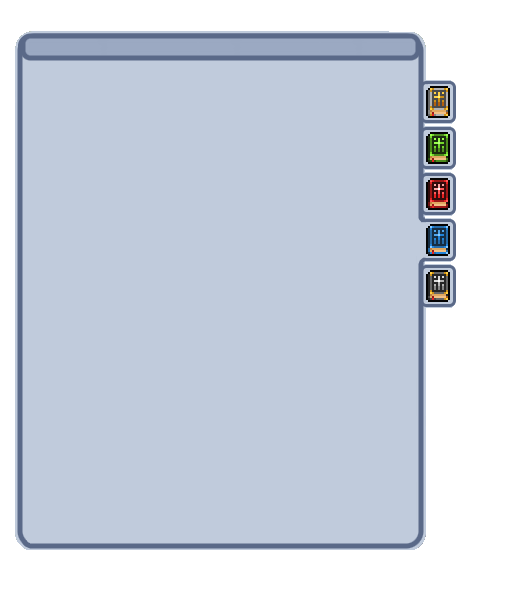
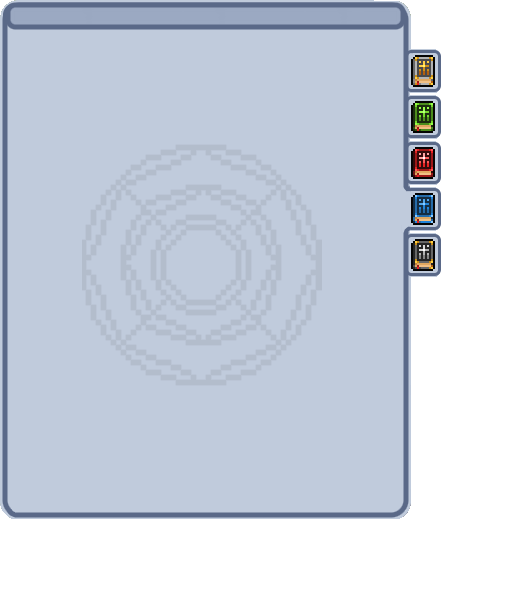
ability panel

Changed region(s): [[0.0, 0.0, 0.919, 0.941]]

diff --git a/src/main/system/ui/inventory/UI_InventoryPanel.java b/src/main/system/ui/inventory/UI_InventoryPanel.java
@@ -112,6 +112,7 @@ public class UI_InventoryPanel {
             }
         }
     }
+
     public void drawBagTooltip(GraphicsContext gc) {
         if (grabbedITEM == null && !mg.inputH.mouse1Pressed) {
             for (UI_InventorySlot bagSlot : bag_Slots) {
@@ -482,35 +483,36 @@ public class UI_InventoryPanel {
     }
 
     public void interactWithWindows() {
+        Point mousePos = mg.inputH.lastMousePosition;
         if (char_Slots[8].item != null && char_Slots[8].item.type == '2') {
             char_Slots[9].type = ",";
         } else {
             char_Slots[9].type = "O";
         }
         boolean node_focused = false;
-        if (mg.ui.musicSliderHitBox.contains(mg.inputH.lastMousePosition) && mg.inputH.mouse1Pressed) {
-            mg.ui.musicSlider += (mg.inputH.lastMousePosition.x - previousMousePosition.x) / 2.0f;
+        if (mg.ui.musicSliderHitBox.contains(mousePos) && mg.inputH.mouse1Pressed) {
+            mg.ui.musicSlider += (mousePos.x - previousMousePosition.x) / 2.0f;
             mg.ui.musicSlider = Math.max(Math.min(100, mg.ui.musicSlider), 0);
             mg.sound.setVolumeMusic(mg.ui.musicSlider);
             mg.ui.musicSliderHitBox.x = (int) (650 + mg.ui.musicSlider * 2 - 12);
-        } else if (mg.ui.effectsSliderHitBox.contains(mg.inputH.lastMousePosition) && mg.inputH.mouse1Pressed) {
-            mg.ui.effectsSlider += (mg.inputH.lastMousePosition.x - previousMousePosition.x) / 2.0f;
+        } else if (mg.ui.effectsSliderHitBox.contains(mousePos) && mg.inputH.mouse1Pressed) {
+            mg.ui.effectsSlider += (mousePos.x - previousMousePosition.x) / 2.0f;
             mg.ui.effectsSlider = Math.max(Math.min(100, mg.ui.effectsSlider), 0);
             mg.sound.setVolumeEffects(mg.ui.effectsSlider);
             mg.ui.effectsSliderHitBox.x = (int) (650 + mg.ui.effectsSlider * 2 - 12);
-        } else if (mg.ui.ambientSliderHitBox.contains(mg.inputH.lastMousePosition) && mg.inputH.mouse1Pressed) {
-            mg.ui.ambientSlider += (mg.inputH.lastMousePosition.x - previousMousePosition.x) / 2.0f;
+        } else if (mg.ui.ambientSliderHitBox.contains(mousePos) && mg.inputH.mouse1Pressed) {
+            mg.ui.ambientSlider += (mousePos.x - previousMousePosition.x) / 2.0f;
             mg.ui.ambientSlider = Math.max(Math.min(100, mg.ui.ambientSlider), 0);
             mg.sound.setVolumeAmbience(mg.ui.ambientSlider);
             mg.ui.ambientSliderHitBox.x = (int) (650 + mg.ui.ambientSlider * 2 - 12);
-        } else if (mg.inputH.mouse1Pressed && charPanelMover.contains(mg.inputH.lastMousePosition)) {
-            charPanelX += mg.inputH.lastMousePosition.x - previousMousePosition.x;
-            charPanelY += mg.inputH.lastMousePosition.y - previousMousePosition.y;
+        } else if (mg.inputH.mouse1Pressed && charPanelMover.contains(mousePos)) {
+            charPanelX += mousePos.x - previousMousePosition.x;
+            charPanelY += mousePos.y - previousMousePosition.y;
             charPanelMover.x = charPanelX - 40;
             charPanelMover.y = charPanelY - 75;
-        } else if (mg.inputH.mouse1Pressed && bagPanelMover.contains(mg.inputH.lastMousePosition)) {
-            bagPanelX += mg.inputH.lastMousePosition.x - previousMousePosition.x;
-            bagPanelY += mg.inputH.lastMousePosition.y - previousMousePosition.y;
+        } else if (mg.inputH.mouse1Pressed && bagPanelMover.contains(mousePos)) {
+            bagPanelX += mousePos.x - previousMousePosition.x;
+            bagPanelY += mousePos.y - previousMousePosition.y;
             if (showBagEquipSlots) {
                 bagSortButton.x = bagPanelX + 41;
                 bagSortButton.y = bagPanelY + 1;
@@ -530,10 +532,10 @@ public class UI_InventoryPanel {
                 bagPanelMover.x = bagPanelX + 5;
                 bagPanelMover.y = bagPanelY - 2;
             }
-        } else if (mg.talentP.wholeTalentWindow.contains(mg.inputH.lastMousePosition)) {
+        } else if (mg.talentP.wholeTalentWindow.contains(mousePos)) {
             for (TalentNode node : mg.talentP.talent_Nodes) {
                 if (node != null) {
-                    if (node.boundBox.contains(mg.inputH.lastMousePosition)) {
+                    if (node.boundBox.contains(mousePos)) {
                         if (mg.inputH.mouse1Pressed) {
                             if (mg.talentP.checkValidTalent(node) && mg.talentP.pointsToSpend > 0 && !node.activated) {
                                 node.activated = true;
@@ -546,12 +548,23 @@ public class UI_InventoryPanel {
                 }
             }
             if (!node_focused && mg.inputH.mouse1Pressed) {
-                mg.talentP.talentPanelX += mg.inputH.lastMousePosition.x - previousMousePosition.x;
-                mg.talentP.talentPanelY += mg.inputH.lastMousePosition.y - previousMousePosition.y;
+                mg.talentP.talentPanelX += mousePos.x - previousMousePosition.x;
+                mg.talentP.talentPanelY += mousePos.y - previousMousePosition.y;
+            }
+        } else if (mg.skillPanel.wholeSkillWindow.contains(mousePos)) {
+            for (int i = 0; i < 5; i++) {
+                if (mg.inputH.mouse1Pressed && mg.skillPanel.hitBoxesSideButtons[i].contains(mousePos)) {
+                    System.out.println("hey");
+                    for (int j = 0; j < 5; j++) {
+                        mg.skillPanel.whichPanel[i] = false;
+                    }
+                    mg.skillPanel.whichPanel[i] = true;
+                    return;
+                }
             }
         }
-        previousMousePosition.x = mg.inputH.lastMousePosition.x;
-        previousMousePosition.y = mg.inputH.lastMousePosition.y;
+        previousMousePosition.x = mousePos.x;
+        previousMousePosition.y = mousePos.y;
     }
 
     private void drawCharacterBackGroundMain(GraphicsContext gc, int startX, int startY) {

diff --git a/src/main/system/ui/skillpanel/UI_SkillPanel.java b/src/main/system/ui/skillpanel/UI_SkillPanel.java
@@ -13,14 +13,15 @@ import java.util.ArrayList;
 import java.util.Objects;
 
 public class UI_SkillPanel {
-    protected boolean drawOne, drawTwo, drawThree, drawFour, drawFive;
+    public boolean[] whichPanel = new boolean[5];
     private final Image a1 = new Image(Objects.requireNonNull(getClass().getResourceAsStream("/resources/ui/inventory/spellbook_first.png")));
     private final Image a2 = new Image(Objects.requireNonNull(getClass().getResourceAsStream("/resources/ui/inventory/spellbook_2.png")));
     private final Image a3 = new Image(Objects.requireNonNull(getClass().getResourceAsStream("/resources/ui/inventory/spellbook_3.png")));
     private final Image a4 = new Image(Objects.requireNonNull(getClass().getResourceAsStream("/resources/ui/inventory/spellbook_4.png")));
     private final Image a5 = new Image(Objects.requireNonNull(getClass().getResourceAsStream("/resources/ui/inventory/spellbook_5.png")));
     public MainGame mg;
-    public Rectangle wholeSkillWindow, one, two, three, four, five;
+    public Rectangle wholeSkillWindow;
+    public Rectangle[] hitBoxesSideButtons = new Rectangle[5];
     public int skillPanelX = 500, skillPanelY = 250;
     ArrayList<SKILL> arcaneSkills = new ArrayList<>();
     ArrayList<SKILL> fireSkills = new ArrayList<>();
@@ -30,13 +31,11 @@ public class UI_SkillPanel {
 
 
     public UI_SkillPanel(MainGame mg) {
-        drawOne = true;
-        this.wholeSkillWindow = new Rectangle(skillPanelX, skillPanelY, 347, 408);
-        one = new Rectangle(skillPanelX, skillPanelY, 38, 43);
-        two = new Rectangle(skillPanelX, skillPanelY, 38, 43);
-        three = new Rectangle(skillPanelX, skillPanelY, 38, 43);
-        four = new Rectangle(skillPanelX, skillPanelY, 38, 43);
-        five = new Rectangle(skillPanelX, skillPanelY, 38, 43);
+        whichPanel[0] = true;
+        this.wholeSkillWindow = new Rectangle(skillPanelX, skillPanelY, 445, 524);
+        for (int i = 0; i < 5; i++) {
+            hitBoxesSideButtons[i] = new Rectangle(123, 123, 38, 43);
+        }
         for (int i = 0; i < 10; i++) {
             arcaneSkills.add(new SKL_Filler(mg));
             fireSkills.add(new SKL_Filler(mg));
@@ -53,36 +52,47 @@ public class UI_SkillPanel {
     }
 
     private void drawBackGround(GraphicsContext gc, int x, int y) {
-        if (drawOne) {
+        if (whichPanel[0]) {
             gc.drawImage(a1, x, y);
-        } else if (drawTwo) {
+        } else if (whichPanel[1]) {
             gc.drawImage(a2, x, y);
-        } else if (drawThree) {
+        } else if (whichPanel[2]) {
             gc.drawImage(a3, x, y);
-        } else if (drawFour) {
+        } else if (whichPanel[3]) {
             gc.drawImage(a4, x, y);
-        } else if (drawFive) {
+        } else if (whichPanel[4]) {
             gc.drawImage(a5, x, y);
         }
         gc.setFill(Colors.darkBackground);
         gc.setFont(FonT.minecraftBold16);
-        gc.fillText("Spell Book", skillPanelX + 180, skillPanelY + 45);
+        gc.fillText("Spell Book", skillPanelX + 160, skillPanelY + 35);
+        wholeSkillWindow.x = skillPanelX;
+        wholeSkillWindow.y = skillPanelY;
+        for (int i = 0; i < 5; i++) {
+            hitBoxesSideButtons[i].x = skillPanelX + 407;
+            hitBoxesSideButtons[i].y = skillPanelY + 51 + 51 * i;
+        }
     }
 
     private void drawSkills(GraphicsContext gc, int x, int y) {
         x += 25;
         y += 100;
-        if (drawOne) {
+        gc.setFont(FonT.minecraftItalic12);
+        gc.setFill(Colors.darkBackground);
+        if (whichPanel[0]) {
             for (int i = 0; i < arcaneSkills.size(); i++) {
-                arcaneSkills.get(i).drawIcon(gc, x, y);
-                arcaneSkills.get(i + 1).drawIcon(gc, x + 140, y);
+                arcaneSkills.get(i).drawSkillSlot(gc, x - 5, y - 40);
+                gc.fillText(arcaneSkills.get(i).name, x + 65, y - 25);
+                arcaneSkills.get(i + 1).drawSkillSlot(gc, x + 190, y - 40);
+                gc.fillText(arcaneSkills.get(i + 1).name, x + 260, y - 25);
                 i++;
+                y += 85;
             }
         }
     }
 
     public void dragAndDrop(GraphicsContext gc) {
-        if (drawOne) {
+        if (whichPanel[0]) {
 
         }
     }

diff --git a/src/main/system/ui/skillbar/SKILL.java b/src/main/system/ui/skillbar/SKILL.java
@@ -30,8 +30,9 @@ abstract public class SKILL {
     public String imagePath;
     protected float actualCoolDown;
     protected int i_id;
-    protected String name;
+    private final Image skillSlot = new Image(Objects.requireNonNull(getClass().getResourceAsStream("/resources/ui/skillbar/ui/slot.png")));
     protected String description;
+    public String name;
 
 
     public SKILL(MainGame mg) {
@@ -109,6 +110,11 @@ abstract public class SKILL {
             gc.setStroke(Colors.darkBackground);
             gc.strokeRoundRect(Player.screenX - 24, Player.screenY + 60, 94, 12, 10, 10);
         }
+    }
+
+    public void drawSkillSlot(GraphicsContext gc, int x, int y) {
+        gc.drawImage(skillSlot, x, y);
+        gc.drawImage(icon, x + 6, y + 6);
     }
 
     protected Image setup(String imagePath) {

diff --git a/src/main/system/ui/skillbar/skills/SKL_Filler.java b/src/main/system/ui/skillbar/skills/SKL_Filler.java
@@ -7,6 +7,7 @@ import main.system.ui.skillbar.SKILL;
 public class SKL_Filler extends SKILL {
     public SKL_Filler(MainGame mg) {
         super(mg);
+        this.name = "Regenerative Aura";
     }
 
     @Override
